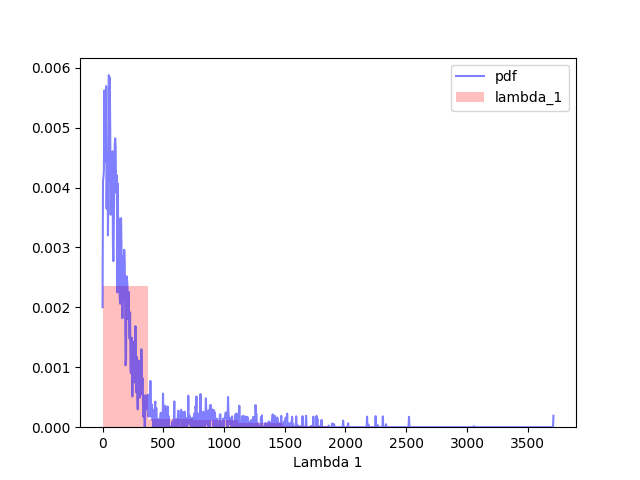
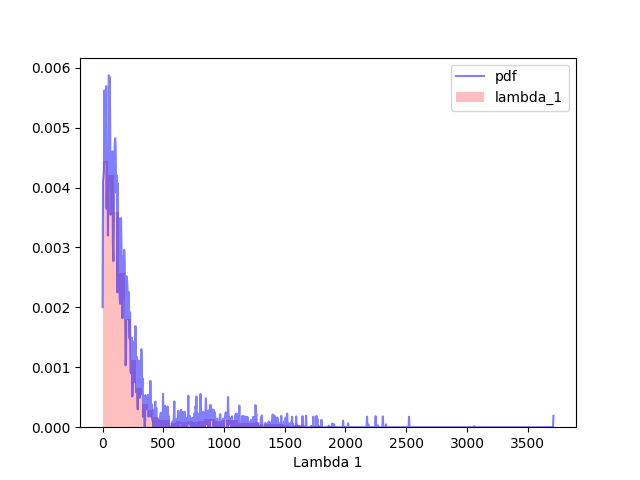
Minor correction to scilearn test

Changed region(s): [[0.1562, 0.3438, 0.25, 0.875], [0.2812, 0.875, 0.3125, 0.9062]]

diff --git a/year3/lastStretch/lambdaReflectionStudy/reflectionTests.py b/year3/lastStretch/lambdaReflectionStudy/reflectionTests.py
@@ -81,8 +81,8 @@ def method3(scistat=True):
         kde = KernelDensity(kernel="gaussian", bandwidth=bw).fit(Lambda_1)
         pdf = np.exp(kde.score_samples(Lambda_1_plot))
         plt.clf()
-        plt.hist(lambda_1,density=True,color='red',alpha=0.25,label="lambda_1")
-        plt.plot(Lambda_1_plot,pdf,color='blue',alpha=0.50,label="pdf")
+        plt.hist(lambda_1,density=True,color='red',bins=80,alpha=0.25,label="lambda_1")
+        plt.plot(lambda_1_plot,pdf,color='blue',alpha=0.50,label="pdf")
         plt.legend()
         plt.xlabel("Lambda 1")
         plt.savefig("scilearn_method3.png")
